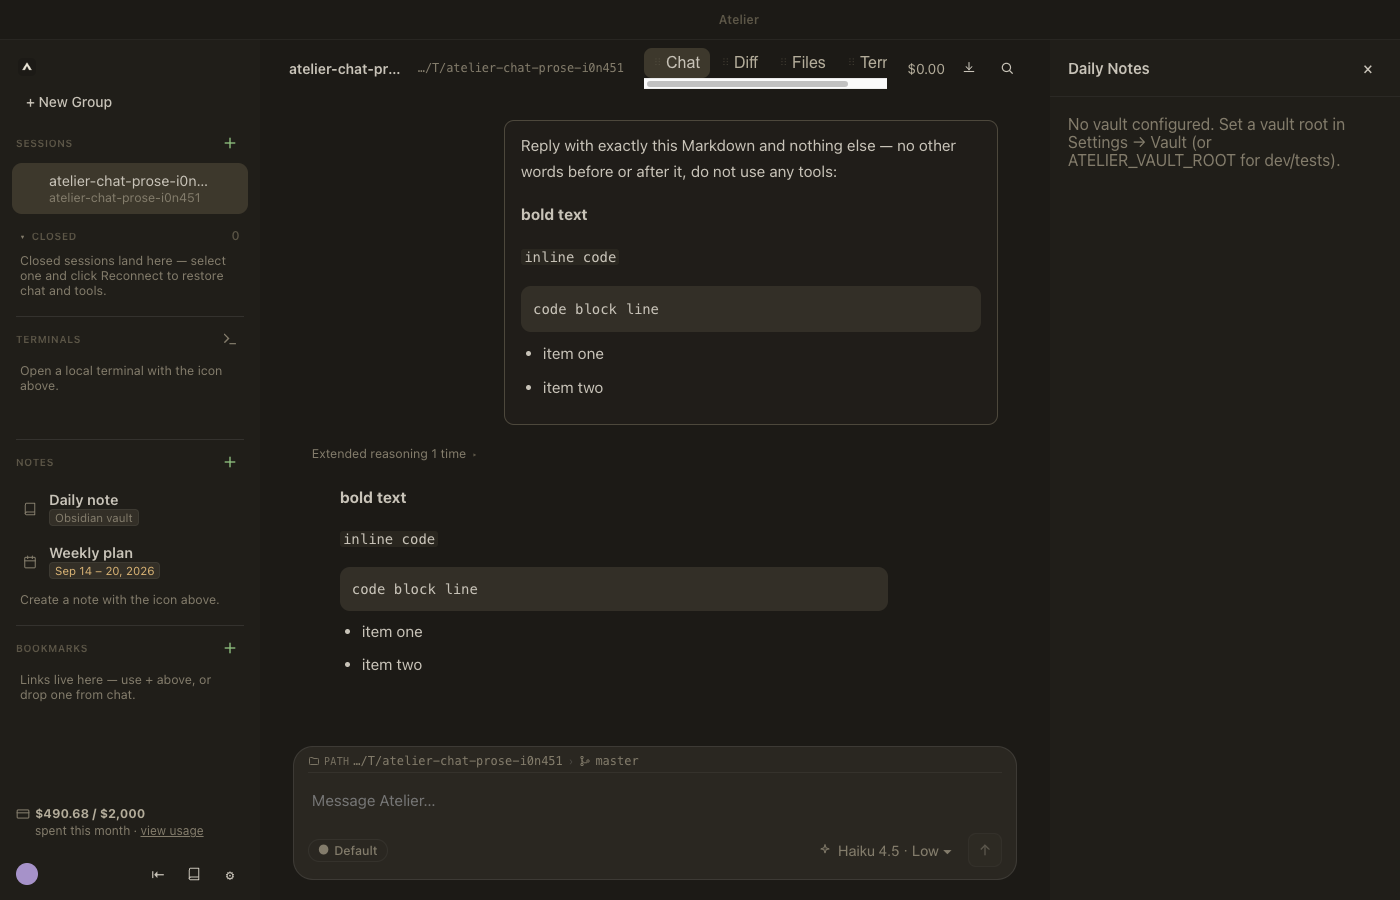
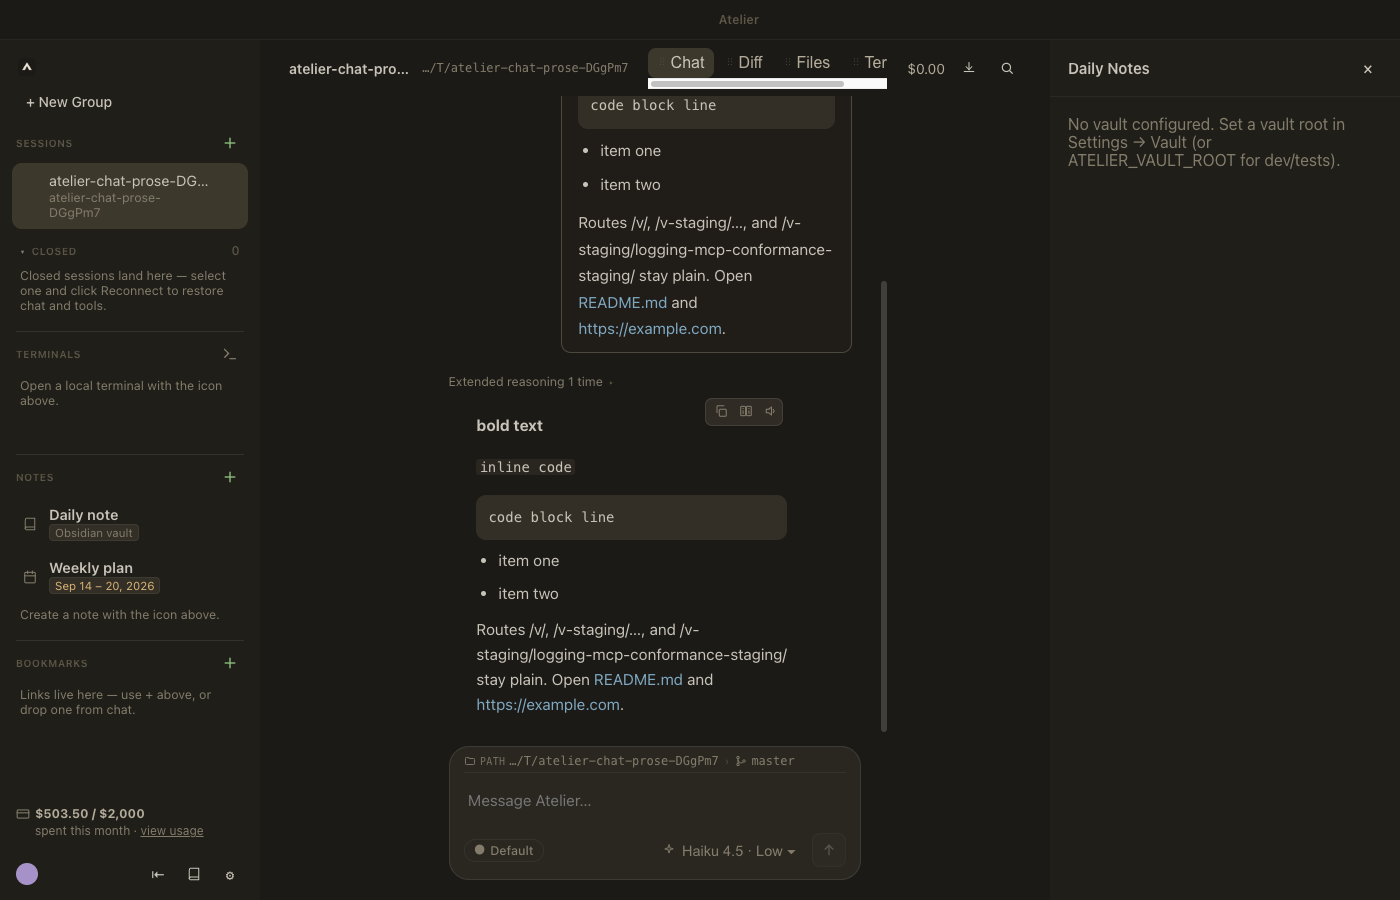
Center the chat column at 60% of the panel with no 720px cap.
A fixed reading width wrapped replies too early on a full screen; the transcript and composer now share a centered 60% column that tracks the available panel instead.

diff --git a/Features/UI-Design/mocks/index.html b/Features/UI-Design/mocks/index.html
@@ -291,7 +291,7 @@
   /* ===== Chat tab ===== */
   .chat-tab-wrap { flex: 1; display: flex; flex-direction: column; min-height: 0; position: relative; }
   /* Todos/Subagents: a real flex column alongside the transcript (not an overlay) so it never covers message text; collapsible to a slim icon rail when space is tight. */
-  .chat-body-row { flex: 1; display: flex; min-height: 0; }
+  .chat-body-row { flex: 1; display: flex; min-height: 0; width: 60%; margin-inline: auto; }
   .chat-main-col { flex: 1; display: flex; flex-direction: column; min-height: 0; min-width: 0; }
   .tracker-rail { width: 290px; flex-shrink: 0; padding: 16px 16px 16px; display: flex; flex-direction: column; gap: 14px; overflow-y: auto; transition: width .12s ease, padding .12s ease; }
   .tracker-rail.collapsed { width: 40px; padding: 12px 6px; align-items: center; }
@@ -323,7 +323,7 @@
   .turn-divider { display: flex; align-items: center; gap: 10px; margin: 4px 0; color: var(--text-disabled); font-size: 13.5px; }
   .turn-divider::before, .turn-divider::after { content: ""; flex: 1; height: 1px; background: var(--border-subtle); }
   .msg-user { align-self: flex-end; max-width: 72%; background: color-mix(in srgb, var(--bg-panel) 25%, var(--bg-app)); border: 1px solid color-mix(in srgb, var(--text-disabled) 70%, var(--bg-panel)); border-radius: var(--r-md); padding: 11px 16px; font-size: 15.5px; line-height: 1.7; }
-  .msg-assistant { max-width: min(84%, 720px); font-size: 15.5px; line-height: 1.7; }
+  .msg-assistant { max-width: 84%; font-size: 15.5px; line-height: 1.7; }
   .msg-assistant .md-body, .plan-body .md-body { white-space: normal; }
   .msg-assistant .md-body :where(p), .plan-body .md-body :where(p) { margin: 0 0 16px; }
   .msg-assistant .md-body :where(p:empty), .plan-body .md-body :where(p:empty) { display: none; }
@@ -532,7 +532,7 @@
 
   /* Composer — same theme-conditional elevation as the AskUserQuestion card, no separating
      line above it (the variant lets whitespace do that job instead of a border-top) */
-  .composer-wrap { padding: 12px 28px 20px; }
+  .composer-wrap { padding: 12px 28px 20px; width: 60%; margin-inline: auto; }
   .composer-box { border: 1px solid var(--elevation-border); border-radius: var(--r-xl); background: var(--bg-panel); box-shadow: var(--elevation-shadow); position: relative; }
   .composer-box:focus-within { border-color: var(--elevation-border); box-shadow: var(--elevation-shadow); }
   .composer-box { border: 1px solid var(--elevation-border); border-radius: var(--r-xl); background: var(--bg-panel); box-shadow: var(--elevation-shadow); position: relative; overflow: visible; font-size: var(--composer-input-font-size, 15px); }
@@ -1191,7 +1191,7 @@
   mark.search-hit { background: var(--warning); color: #241d0e; border-radius: 2px; padding: 0 1px; }
 
   /* ===== Message action toolbar ===== */
-  .msg-wrap { position: relative; max-width: min(84%, 720px); }
+  .msg-wrap { position: relative; max-width: 84%; }
   .msg-wrap > .msg-assistant { width: 100%; max-width: none; }
   .msg-actions { position: absolute; top: -11px; right: 4px; display: none; gap: 3px; background: var(--bg-panel-raised); border: 1px solid var(--border-default); border-radius: 7px; padding: 2px; box-shadow: var(--shadow-panel); }
   .msg-wrap:hover .msg-actions { display: flex; }

diff --git a/e2e/ui-chat-transcript-typography.spec.ts b/e2e/ui-chat-transcript-typography.spec.ts
@@ -211,10 +211,50 @@ test('chat prose, user input, and margins use a calm responsive rhythm', async (
     const mainLog = readFileSync(join(userDataDir, 'logs', 'main.log'), 'utf8')
     expect(mainLog).toContain('session:sendMessage invoked')
     expect(mainLog).toContain('harness event: result (turn complete)')
-    const assistantWidths = await assistantMsg.evaluate((el) => ({
-      message: el.getBoundingClientRect().width,
-      wrapper: el.parentElement?.getBoundingClientRect().width ?? 0
-    }))
+    const layoutWidths = await page.evaluate(() => {
+      const body = document.querySelector<HTMLElement>('.chat-body-row')
+      const composer = document.querySelector<HTMLElement>('.composer-cache')
+      const transcript = document.querySelector<HTMLElement>('.transcript')
+      const messages = document.querySelectorAll<HTMLElement>(
+        '.msg-assistant[data-testid="transcript-message"]'
+      )
+      const message = messages.item(messages.length - 1)
+      const wrapper = message?.parentElement
+      if (!body || !composer || !transcript || !message || !wrapper) return null
+      const transcriptStyle = getComputedStyle(transcript)
+      const bodyRect = body.getBoundingClientRect()
+      const bodyParentRect = body.parentElement?.getBoundingClientRect()
+      const composerRect = composer.getBoundingClientRect()
+      const composerParentRect = composer.parentElement?.getBoundingClientRect()
+      return {
+        body: bodyRect.width,
+        bodyParent: bodyParentRect?.width ?? 0,
+        bodyLeftGap: bodyParentRect ? bodyRect.left - bodyParentRect.left : 0,
+        bodyRightGap: bodyParentRect ? bodyParentRect.right - bodyRect.right : 0,
+        composer: composerRect.width,
+        composerParent: composerParentRect?.width ?? 0,
+        composerLeftGap: composerParentRect ? composerRect.left - composerParentRect.left : 0,
+        composerRightGap: composerParentRect ? composerParentRect.right - composerRect.right : 0,
+        transcriptContent:
+          transcript.clientWidth -
+          Number.parseFloat(transcriptStyle.paddingLeft) -
+          Number.parseFloat(transcriptStyle.paddingRight),
+        wrapper: wrapper.getBoundingClientRect().width,
+        message: message.getBoundingClientRect().width
+      }
+    })
+    expect(layoutWidths).not.toBeNull()
+    expect(layoutWidths!.body / layoutWidths!.bodyParent).toBeCloseTo(0.6, 2)
+    expect(layoutWidths!.composer / layoutWidths!.composerParent).toBeCloseTo(0.6, 2)
+    expect(Math.abs(layoutWidths!.bodyLeftGap - layoutWidths!.bodyRightGap)).toBeLessThanOrEqual(1)
+    expect(
+      Math.abs(layoutWidths!.composerLeftGap - layoutWidths!.composerRightGap)
+    ).toBeLessThanOrEqual(1)
+    expect(layoutWidths!.wrapper / layoutWidths!.transcriptContent).toBeCloseTo(0.84, 2)
+    const assistantWidths = {
+      message: layoutWidths!.message,
+      wrapper: layoutWidths!.wrapper
+    }
     expect(assistantWidths.message).toBeCloseTo(assistantWidths.wrapper, 0)
     const widePadding = await page.locator('.transcript').evaluate((el) =>
       Number.parseFloat(getComputedStyle(el).paddingLeft)

diff --git a/src/renderer/src/styles/global.css b/src/renderer/src/styles/global.css
@@ -1313,7 +1313,7 @@ input[type='range'] {
    at the transcript/rail boundary. min-height:0 stays removed so the row
    can grow to its natural (overflowing) content height rather than being
    clipped by the flex parent. */
-.chat-body-row { flex: 1; display: flex; overflow-y: auto; }
+.chat-body-row { flex: 1; display: flex; overflow-y: auto; width: 60%; margin-inline: auto; }
 .chat-main-col { flex: 1; display: flex; flex-direction: column; min-width: 0; }
 
 .transcript {
@@ -1338,7 +1338,7 @@ input[type='range'] {
   white-space: pre-wrap;
 }
 .msg-assistant {
-  max-width: min(84%, 720px);
+  max-width: 84%;
   font-size: var(--font-agent-message-size);
   line-height: 1.7;
   white-space: pre-wrap;
@@ -1429,7 +1429,7 @@ input[type='range'] {
    task's own addition (the mock only demoed the pattern on an assistant
    message) so the user bubble keeps its existing right-aligned layout once
    wrapped. */
-.msg-wrap { position: relative; max-width: min(84%, 720px); }
+.msg-wrap { position: relative; max-width: 84%; }
 .msg-wrap > .msg-assistant { width: 100%; max-width: none; }
 .msg-wrap-user { align-self: flex-end; max-width: 72%; }
 .msg-wrap-user .msg-user { max-width: 100%; }
@@ -3662,6 +3662,8 @@ body.dragging-workspace-tab .workspace-drop-zone { opacity: 1; }
 }
 .composer-cache {
   flex-shrink: 0;
+  width: 60%;
+  margin-inline: auto;
 }
 .composer-cache-entry {
   display: none;

diff --git a/Features/chat-transcript-typography/spec.md b/Features/chat-transcript-typography/spec.md
@@ -4,16 +4,19 @@ No tool-detail or composer chrome changes.
 
 ## Regression: assistant text wraps too early
 
-The supplied screenshot shows assistant prose using only about 70% of its
-intended reading column. `.msg-wrap` already owns the responsive
-`min(84%, 720px)` measure; applying that cap again to its child
-`.msg-assistant` compounds the width to 84% × 84%.
+The fullscreen screenshots show that a fixed 720px reading measure wastes
+most of a wide chat surface and forces replies to wrap too early. The earlier
+double-width bug also applied the message percentage to both `.msg-wrap` and
+its child `.msg-assistant`.
 
-Expected: `.msg-wrap` remains the single width owner and `.msg-assistant`
-fills it (`width: 100%; max-width: none`). At a wide window, the assistant
-message and its wrapper must have the same computed width. This case is not
-shown separately in the mock; it follows the mock's existing 84%/720px
-assistant measure without applying it twice.
+Expected: the complete chat body, including the transcript/tracker region and
+composer, occupies 60% of the available main surface and remains centered,
+matching the supplied Cursor screenshot. `.msg-wrap` uses the existing
+responsive 84% measure with no fixed pixel cap, and `.msg-assistant` fills that
+wrapper (`width: 100%; max-width: none`). Thus both the reading width and the
+composer grow and shrink with the containing panel rather than stopping at
+720px. The mock did not previously cover a shared transcript/composer width;
+add the 60% treatment to `.chat-body-row` and `.composer-wrap`.
 
 ## Regression: composer cursor offset
 
@@ -81,7 +84,8 @@ Reuse the existing `.msg-assistant` / `.md-body` selectors in
 
 | Surface | Treatment |
 | --- | --- |
-| Assistant body | 15.5px, `line-height: 1.7`, measure `min(84%, 720px)` |
+| Chat body and composer | centered, `width: 60%` of the available main surface |
+| Assistant body | 15.5px, `line-height: 1.7`, responsive `84%` measure with no fixed pixel cap |
 | Paragraphs | `margin: 0 0 16px` |
 | Headings | weight 600, `margin: 24px 0 10px` |
 | Lists | `margin: 0 0 12px`; `li + li { margin-top: 8px }` |
@@ -103,11 +107,15 @@ or mode toggle. Tool cards and all non-input composer chrome are unchanged.
       type scale and neutral user-input surface, verifies inline Markdown
       in the composer and sent user bubble, and verifies that
       transcript padding decreases with the chat pane width.
-- [ ] At a 1400px window, the assistant message fills its `.msg-wrap`
-      container instead of receiving a second 84% width cap.
+- [ ] At a 1400px window and in native fullscreen, `.chat-body-row` and
+      `.composer-cache` each occupy 60% of their containing main surface and
+      have equal left/right outer space.
+- [ ] The assistant wrapper computes to 84% of the transcript content width
+      with no 720px ceiling, and `.msg-assistant` fills that wrapper instead
+      of receiving a second width cap.
 - [ ] Screenshots `bug-chat-assistant-double-width-cap.png` and
-      `chat-assistant-width-after.png` personally compared to confirm the
-      corrected reading measure.
+      `chat-fullscreen-responsive-width-after.png` personally compared to
+      confirm the corrected responsive measure and aligned composer.
 - [ ] With the composer context bar visible, `.composer-cursor` remains
       within the textarea bounds instead of appearing above the input.
 - [ ] The cursor's computed height equals the composer's computed font size.
